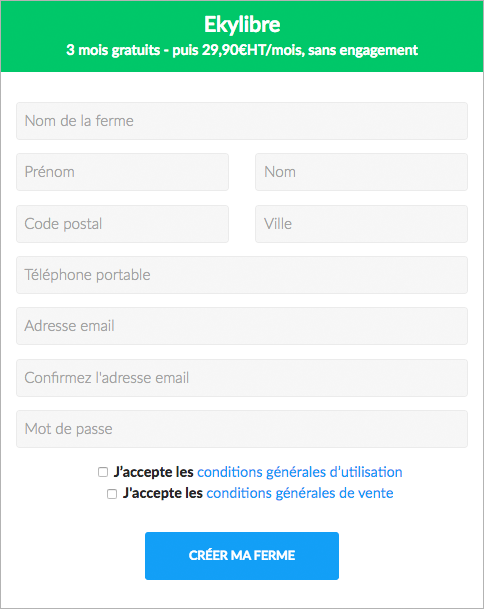
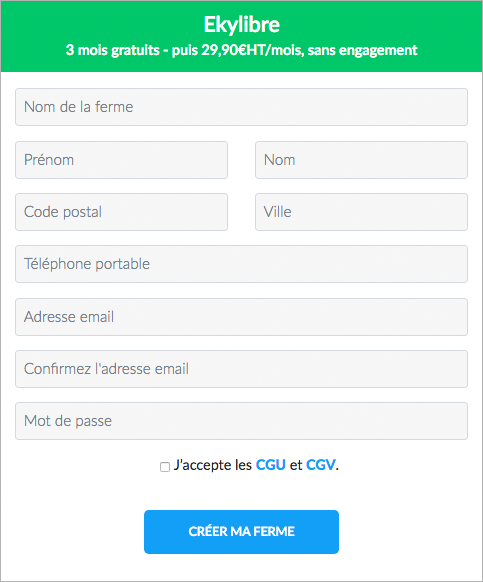
Some adjustments

diff --git a/content/fr/chapitre6.html b/content/fr/chapitre6.html
@@ -268,11 +268,11 @@
          </div>
          <div class="info-txt">
             <span class="titre-advice">Comptabilité 2019<br /></span>
-            <p class="texte-advice">Le module "Comptabilité" a été récemment profondément remanié afin d'offrir aux utilisateurs un outil complet, fiable et performant avec une présentation plus intuitive. Ce chapitre est encore en cours de rédaction et des informations complémentaires seront ajoutées progressivement.</p>
+            <p class="texte-advice">Le module "Comptabilité" a été récemment profondément remanié afin d'offrir aux utilisateurs un outil complet, fiable et performant avec une présentation plus intuitive. Ce chapitre présente les procédures essentielles à connaître pour tirer efficacement profit des outils de gestion comptable dans Ekylibre.</p>
          </div>
       </div>
       <div class="compta-large">
-         <p class="texte aerateur-haut"><strong>Dans ce chapitre, on vous explique comment</strong> &#40;sélectionnez le lien dans les listes déroulantes&#41;&nbsp;<strong>:</strong></p>
+         <p class="texte aerateur-haut"><strong>Dans ce chapitre, on vous explique comment</strong> &#40;sélectionnez un processus dans les listes déroulantes&#41;&nbsp;<strong>:</strong></p>
          <div class="divTableCompta texte aerateur-bas">
             <div class="divTableBody">
                <div class="divTableRow">
@@ -361,11 +361,11 @@
                </div>
             </div>
          </div>
-         <p class="texte"><em>Ce système de navigation est également disponible à tout moment avec le bouton en bas à gauche de la fenêtre&nbsp;:</em></p>
+         <p class="texte"><em>Ce système de navigation est également disponible à tout moment grâce au bouton en bas à gauche de la fenêtre&nbsp;:</em></p>
 		 <p class="texte" align="center"><img src="../images/chapitre6/navigation.svg" width="50" alt="Menu comptabilité" /></p>
       </div>
       <div class="compta-short">
-         <p class="texte aerateur-haut"><strong>Dans ce chapitre, on vous explique comment</strong> &#40;sélectionnez le lien dans la liste déroulante&#41;&nbsp;<strong>:</strong></p>
+         <p class="texte aerateur-haut"><strong>Dans ce chapitre, on vous explique comment</strong> &#40;sélectionnez un processus dans la liste déroulante&#41;&nbsp;<strong>:</strong></p>
          <form class="texte">
             <select name="ListeUrl" SIZE="1" onChange="ChangeUrl(this.form)" style="width:210px">
                <option selected value="">Menu comptabilité&nbsp;:</option>
@@ -684,7 +684,14 @@
       <h6>Guide de prise en main • Comptabilité • Journaux</h6>
       <a class="slice-process" id="journaux"></a>
       <h2 class="texte aerateur">c - Journaux</h2>
-      <p class="texte">La création d'un nouveau journal peut s'avérer utile voire indispensable dans les cas suivants&nbsp;:</p>
+	  <p class="texte">Lors de la création de votre ferme Ekylibre, 10 journaux ont été générés automatiquement par l'application.</p>
+	  <p class="texte">Il est possible de les modifier en cliquant sur le crayon<img src="../images/commun/crayon.svg" alt="Crayon modification" height="20" class="align-icone icone-marge-gauche icone-marge-droite">à gauche du nom de chacun d'eux pour changer leur nom, leur code ou pour leur associer un comptable.</p>
+	  <p class="texte">Il est également possible d'en supprimer certains en cliquant sur la croix<img src="../images/commun/times-blue.svg" alt="Croix suppression" height="20" class="align-icone icone-marge-gauche icone-marge-droite">à gauche du nom de chacun d'eux mais nous vous déconseillons de le faire car ils sont tous potentiellement utilisés par l'application pour gérer correctement votre comptabilité. Les journaux "Achats", "Banque", "Caisse" et "Ventes" ne sont pas supprimables.</p>
+	  <p class="texte">Notez qu'une fois que des écritures sont consignées dans un journal, il n'est plus possible de le supprimer.</p>
+	  <p class="texte">
+            <img src="../images/chapitre6/liste-journaux.png" class="contour-img" alt="Liste des journaux" data-action="zoom" />
+         </p>
+      <p class="texte aerateur-haut">La création d'un nouveau journal peut s'avérer utile voire indispensable dans les cas suivants&nbsp;:</p>
       <div class="divTableListe marge">
          <div class="divTableBody">
             <div class="divTableRow">
@@ -778,7 +785,7 @@
       <h6>Guide de prise en main • Comptabilité • Lettrage de comptes</h6>
       <a class="slice-process" id="lettrage"></a>
       <p align="center" class="texte aerateur procedure">B – Procédure pour réaliser le lettrage de comptes</p>
-      <p class="texte">Le lettrage comptable d'un compte &#40;généralement un compte de tiers&#41; est une opération qui consiste à affecter un seul repère à 2 ou plusieurs entrées comptables dans ce compte, la somme des entrées au crédit devant être égale à la somme des entrées au débit. Il permet donc d'isoler les factures restant à payer pour les fournisseurs et les factures restant à encaisser pour les clients.</p>
+      <p class="texte">Le lettrage comptable d'un compte &#40;généralement un compte de tiers&#41; est une opération qui consiste à affecter un seul code à 2 ou plusieurs entrées comptables dans ce compte, la somme des entrées au crédit devant être égale à la somme des entrées au débit. Il permet donc d'isoler les factures restant à payer pour les fournisseurs et les factures restant à encaisser pour les clients.</p>
       <p class="texte">Ce rapprochement est réalisé grâce à une codification composée d'une ou plusieurs «&nbsp;lettres&nbsp;» permettant ainsi de visualiser plus rapidement les factures non réglées. Ekylibre réalise automatiquement le lettrage en détectant les factures et les règlements pour les lier s'ils sont équilibrés. Dans le cas contraire, il sera possible de corriger le lettrage et éventuellement d'ajouter des écritures de compensation.</p>
       <p class="texte">Notez que le <a href="#rapprochement" class="avoid-clicks" target="_self">rapprochement bancaire</a>, qui utilise également des lettres lorsque vous pointez les écritures passées en banque avec les écritures passées en comptabilité, est une opération différente et indépendante du lettrage de comptes.</p>
       <p class="texte aerateur-haut">
@@ -874,7 +881,7 @@
       </div>
       <div class="process-txt">
          <span class="titre-advice">Affichez le nouveau lettrage</span>
-         <p>Le nouveau lettrage est affiché avec la nouvelle écriture enregistrée dans le brouillard du journal de banque. Notez qu'une nouveau code unique a également remplacé l'ancien lettrage pour chacune des écritures concernées par l'opération.</p>
+         <p>Le nouveau lettrage est affiché avec la nouvelle écriture enregistrée dans le brouillard du journal de banque. Notez qu'une nouveau code unique a remplacé l'ancien lettrage pour chacune des écritures concernées par l'opération.</p>
          <p class="max-img-process">
             <img src="../images/chapitre6/lettrage10.png" class="contour-img" alt="Nouveau lettrage" data-action="zoom" />
          </p>
@@ -3000,7 +3007,7 @@
    <div id="popup1" class="popup_block">
       <h2 class="info titre-annexe">Menu comptabilité</h2>
       <div class="compta-large">
-         <p class="marge-annexe">Sélectionnez le lien dans les listes déroulantes&nbsp;:</p>
+         <p class="marge-annexe">Sélectionnez un processus dans les listes déroulantes&nbsp;:</p>
          <div class="divTableCompta texte aerateur-bas">
             <div class="divTableBody">
                <div class="divTableRow">

diff --git a/content/fr/chapitre2.html b/content/fr/chapitre2.html
@@ -1099,7 +1099,7 @@
             Choisissez un <strong>mot de passe</strong> assez difficile à trouver. Notez-le dans un endroit sûr. N'oubliez pas que votre ferme contenant les données de votre exploitation sera accessible grâce à votre identifiant —  donc votre adresse email — et à ce mot de passe.
          </p>
          <p>
-            Cochez les cases d'acceptation des <strong>Conditions générales d'utilisation</strong> et des <strong>Conditions générales de vente</strong>, puis cliquez sur <strong>"Créer ma ferme"</strong> pour valider votre inscription. Une fois les champs correctement renseignés, vous êtes directement amené&#40;e&#41; dans l'<a href="#demarrage" target="_self" class="avoid-clicks">assistant de démarrage</a> pour configurer votre ferme.
+            Cochez la case d'acceptation des <strong>CGU</strong> &#40;Conditions générales d'utilisation&#41; et des <strong>CGV</strong> &#40;Conditions générales de vente&#41;, puis cliquez sur le bouton <strong>"Créer ma ferme"</strong> pour valider votre inscription. Une fois les champs correctement renseignés, vous êtes directement amené&#40;e&#41; dans l'<a href="#demarrage" target="_self" class="avoid-clicks">assistant de démarrage</a> pour configurer votre ferme.
          </p>
       </div>
       <div class="info-fond wrench-green aerateur-haut aerateur-bas">
@@ -1283,25 +1283,14 @@
          </p>
          <p class="texte">que vous voulez atteindre.</p>
       </div>
+	  <p class="texte aerateur-haut">Le standard «&nbsp;Web Push&nbsp;» permet aux sites Web d’envoyer des notifications à leurs utilisateurs sous forme de nouveaux messages ou de contenu mis à jour. Tant que le navigateur utilisé est ouvert, les sites Web qui ont obtenu une permission peuvent envoyer des notifications à votre navigateur et les afficher à l’écran. Les utilisateurs peuvent facilement autoriser ou désactiver les notifications et contrôler la façon dont ces notifications apparaîtront. Activez ou non les notifications Ekylibre une fois arrivé&#40;e&#41; dans l'assistant de démarrage.</p>
+	  <p class="texte"><img src="../images/chapitre2/notif-navigateur.png" class="contour-img" alt="Notifications navigateur" data-action="zoom" /></p>
       <h6>Guide de prise en main • Introduction • Déclaration de l'exploitation</h6>
       <a class="slice-long" id="declaration"></a>
       <h2 class="texte aerateur">f - Déclaration de l'exploitation</h2>
       <p class="texte">
          La première étape de l'assistant de démarrage permet de déclarer les informations de base de votre exploitation telles que son nom, sa date de création, son numéro de Siret, son adresse, etc.
       </p>
-      <!--
-         <div class="warn-fond aerateur-haut aerateur-bas">
-            <div class="floating-box-warn">
-               <img src="../images/commun/attention.svg" width="100" alt="Attention"/>
-            </div>
-            <div class="info-txt">
-               <span class="titre-advice">Format de la date<br /></span>
-               <p class="texte-advice">
-                  La date de création de l'exploitation doit être saisie sous la forme aaaa-mm-jj. Exemple&nbsp;: si la date de création est le 1 janvier 1984, vous devez saisir 1984-01-01.
-               </p>
-            </div>
-         </div>
-         -->
       <p class="texte max-img-inline">
          <img src="../images/chapitre2/first-run2.png" class="contour-img" alt="Assistant de démarrage d'Ekylibre">
       </p>

diff --git a/content/fr/demarrage.html b/content/fr/demarrage.html
@@ -13,7 +13,7 @@
    <h3 align="center" class="texte"><img class="logo" src="../images/commun/logo-ekylibre.svg" alt="Ekylibre" width="300"><br />Logiciel de gestion d'exploitation agricole</h3>
    <p align="center" class="aerateur-haut aerateur-bas"><img src="../images/accueil/introduction.png" alt="Gestion d'exploitation agricole" class="loading"></p>
    <h1 align="center" class="texte majuscule aerateur">Guide de prise en main</h1>
-   <p class="texte">Ce guide a pour but d'aider le nouvel utilisateur à configurer rapidement et correctement l'application pour son exploitation agricole et de commencer à l'utiliser. Ce guide a été mis à jour le 22 novembre 2019. La version au format PDF est datée du 22 novembre 2019.</p>
+   <p class="texte">Ce guide a pour but d'aider le nouvel utilisateur à configurer rapidement et correctement l'application pour son exploitation agricole et de commencer à l'utiliser. Ce guide a été mis à jour le 25 novembre 2019. La version au format PDF est datée du 22 novembre 2019.</p>
    <div class="pdf">
       <p class="texte">Pour naviguer entre les différents chapitres, utilisez le menu symbolisé par l'icône<img src="../images/accueil/navicon.svg" alt="Menu" height="20" class="align-icone icone-marge-gauche icone-marge-droite">en haut à gauche des pages. Des liens sont également disponibles dans l'en-tête des pages &#40;uniquement sur les écrans dont la résolution est de 768 pixels minimum&#41; ainsi qu'à la fin de chaque chapitre.</p>
       <p class="texte">Le fil d'ariane situé en haut de la page affiche le nom de la section de la documentation que vous êtes en train de lire pour mieux vous repérez dans un chapitre &#40;uniquement sur les écrans dont la résolution est de 768 pixels minimum&#41;.</p>
@@ -58,9 +58,9 @@
       </div>
    </div>
    <div class="pdf">
-      <p class="texte"><em>La documentation est également disponible au format PDF à partir de <a href="../pdf/Ekylibre-Guide.pdf" target="_blank">ce lien</a> ou du bouton en bas à gauche des pages&nbsp;:</em></p>
-	  <p class="texte" align="center"><img src="../images/commun/icone_pdf.svg" width="50" alt="Documentation PDF" /></p>
-      <p class="texte"><em>Les notes de version décrivant les nouvelles fonctionnalités et les améliorations apportées à chaque version d'Ekylibre sont <a class="avoid-clicks" href="../notes-version">disponibles ici</a> ou en cliquant sur le bouton en bas à gauche des pages&nbsp;:</em></p>
+      <p class="texte"><em>La documentation est disponible au format PDF à partir de <a href="../pdf/Ekylibre-Guide.pdf" target="_blank">ce lien</a> ou du bouton en bas à gauche des pages &#40;le temps de téléchargement du fichier dans votre navigateur dépend de la vitesse de votre connexion internet&#41;&nbsp;:</em></p>
+	  <p class="texte" align="center"><img src="../images/commun/link-pdf.svg" width="50" alt="Documentation PDF" /></p>
+      <p class="texte"><em>Les notes de version décrivant les nouvelles fonctionnalités et les principales améliorations apportées à chaque version d'Ekylibre sont <a class="avoid-clicks" href="../notes-version">disponibles ici</a> ou en cliquant sur le bouton en bas à gauche des pages&nbsp;:</em></p>
 	  <p class="texte" align="center"><img src="../images/commun/notes-version.svg" width="50" alt="Notes de version" /></p>
    </div>
    <div class="sommaire">

diff --git a/content/stylesheets/ekylibre.css b/content/stylesheets/ekylibre.css
@@ -2502,7 +2502,7 @@ img.zoom-img {
 		background-image: url("../fr/images/commun/link-pdf.svg");
 		background-repeat: no-repeat;
 		background-position: center center;
-		background-size: 30px auto;
+		background-size: 50px auto;
 		z-index: 1;
 	}
 	.btn_notes-version {
